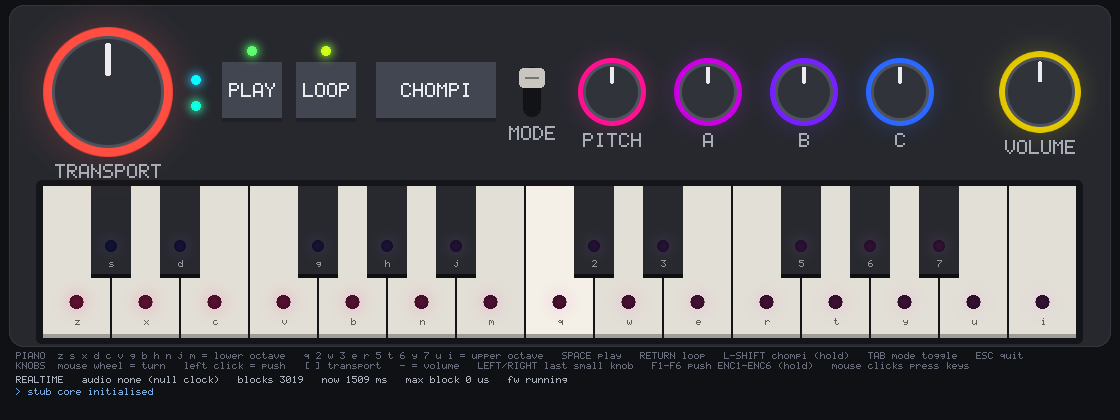
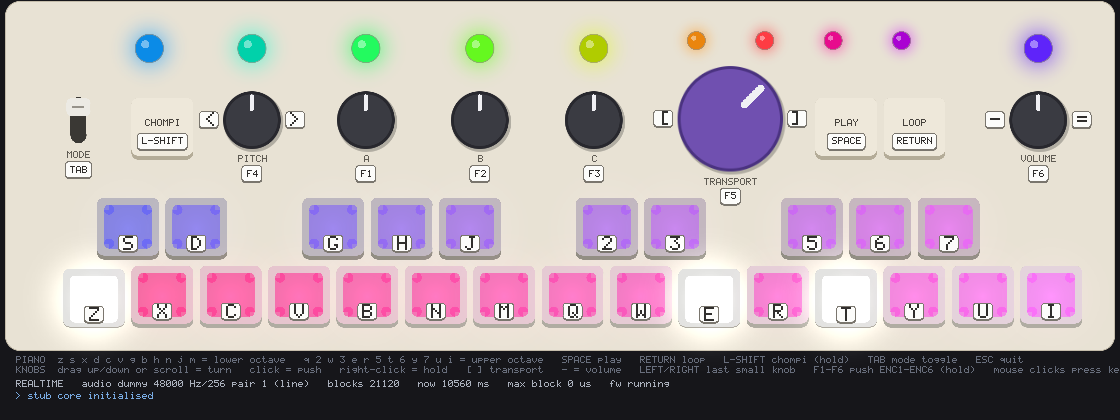
GUI: show the computer key on every control
Each piano key, PLAY, LOOP, CHOMPI, the mode switch and every knob now
carries a small key-shaped chip with the key that works it: the letter or
digit on the piano caps, SPACE / RETURN / L-SHIFT on the function keys, TAB
on the mode switch, F1 to F6 under the knobs for the push, [ ] and - =
beside the transport and volume knobs for turning, and < > beside
whichever small knob the arrow keys currently turn. Regenerate the doc
screenshots.

Claude-Session: https://claude.ai/code/session_01Dp3X1K9YrRtikm9LtFwPLs

diff --git a/frontends/sdl/panel.cpp b/frontends/sdl/panel.cpp
@@ -24,8 +24,8 @@ namespace gui
 {
 using namespace chompi_sim;
 
-const char* const kPianoKeyNames[25] = {"z", "s", "x", "d", "c", "v", "g", "b", "h", "n", "j", "m", "q",
-                                        "2", "w", "3", "e", "r", "5", "t", "6", "y", "7", "u", "i"};
+const char* const kPianoKeyNames[25] = {"Z", "S", "X", "D", "C", "V", "G", "B", "H", "N", "J", "M", "Q",
+                                        "2", "W", "3", "E", "R", "5", "T", "6", "Y", "7", "U", "I"};
 
 namespace
 {
@@ -97,14 +97,16 @@ struct KnobDef
     const char* label;
     float       x_mm, y_mm, r_mm;
     bool        big;
+    const char* push_key;         /**< computer key that pushes the encoder */
+    const char* ccw_key, *cw_key; /**< keys that turn it; nullptr = the arrow keys, when touched last */
 };
 constexpr KnobDef kKnobs[] = {
-    {ENC_SW4, "PITCH", 69.39f, 68.46f, 8.5f, false},
-    {ENC_SW1, "A", 102.90f, 68.46f, 8.5f, false},
-    {ENC_SW2, "B", 136.42f, 68.46f, 8.5f, false},
-    {ENC_SW3, "C", 169.94f, 68.46f, 8.5f, false},
-    {ENC_SW5, "TRANSPORT", 210.09f, 68.85f, 15.5f, true}, // SW5 is on the lower board, under this spot
-    {ENC_SW6, "VOLUME", 300.65f, 68.46f, 8.5f, false},
+    {ENC_SW4, "PITCH", 69.39f, 68.46f, 8.5f, false, "F4", nullptr, nullptr},
+    {ENC_SW1, "A", 102.90f, 68.46f, 8.5f, false, "F1", nullptr, nullptr},
+    {ENC_SW2, "B", 136.42f, 68.46f, 8.5f, false, "F2", nullptr, nullptr},
+    {ENC_SW3, "C", 169.94f, 68.46f, 8.5f, false, "F3", nullptr, nullptr},
+    {ENC_SW5, "TRANSPORT", 210.09f, 68.85f, 15.5f, true, "F5", "[", "]"}, // SW5 is on the lower board, under this spot
+    {ENC_SW6, "VOLUME", 300.65f, 68.46f, 8.5f, false, "F6", "-", "="},
 };
 
 struct FuncKeyDef
@@ -112,11 +114,12 @@ struct FuncKeyDef
     int         button;
     const char* label;
     float       x_mm, y_mm;
+    const char* key; /**< computer key */
 };
 constexpr FuncKeyDef kFuncKeys[] = {
-    {KEY_CHOMPI, "CHOMPI", 43.03f, 65.92f}, // KEY26
-    {KEY_PLAY, "PLAY", 244.14f, 65.92f},    // KEY27
-    {KEY_LOOP, "LOOP", 264.26f, 65.92f},    // KEY28
+    {KEY_CHOMPI, "CHOMPI", 43.03f, 65.92f, "L-SHIFT"}, // KEY26
+    {KEY_PLAY, "PLAY", 244.14f, 65.92f, "SPACE"},      // KEY27
+    {KEY_LOOP, "LOOP", 264.26f, 65.92f, "RETURN"},     // KEY28
 };
 
 /** The ten panel LEDs, by PanelLed index (LED1..LED10 on the board). */
@@ -171,7 +174,6 @@ constexpr SDL_Color kLowerFace   = {226, 224, 217, 255};
 constexpr SDL_Color kLowerSide   = {176, 172, 162, 255};
 constexpr SDL_Color kUpperFace   = {196, 193, 185, 255};
 constexpr SDL_Color kUpperSide   = {146, 142, 132, 255};
-constexpr SDL_Color kKeyText     = {120, 116, 108, 255};
 constexpr SDL_Color kFuncFace    = {238, 232, 218, 255};
 constexpr SDL_Color kFuncSide    = {180, 172, 152, 255};
 constexpr SDL_Color kFuncText    = {70, 66, 60, 255};
@@ -193,6 +195,11 @@ constexpr SDL_Color kToggleGrip  = {150, 146, 138, 255};
 constexpr SDL_Color kHintColor   = {104, 110, 124, 255};
 constexpr SDL_Color kStatusColor = {170, 176, 188, 255};
 constexpr SDL_Color kLogColor    = {120, 170, 226, 255};
+constexpr SDL_Color kChipFace    = {252, 252, 250, 255};
+constexpr SDL_Color kChipEdge    = {122, 118, 110, 255};
+constexpr SDL_Color kChipText    = {48, 46, 44, 255};
+constexpr float     kChipH       = 18.f; /**< height of a computer-key chip */
+constexpr float     kLabelH      = 7.f;  /**< height of the 1 px label font */
 
 SDL_Color Scaled(SDL_Color c, float f)
 {
@@ -402,6 +409,22 @@ void DrawLed(Canvas& cv, float cx, float cy, float r, Rgb c)
     cv.Disc(cx - r * 0.3f, cy - r * 0.3f, r * 0.3f, SDL_Color{255, 255, 255, 110});
 }
 
+/** The computer key for a control: a small key-shaped chip with the key's
+ *  name, centred on (cx, cy). A single character is drawn large, a key name
+ *  small. */
+void DrawKeyChip(Canvas& cv, float cx, float cy, const char* name)
+{
+    if(!name || !*name)
+        return;
+    const std::string s(name);
+    const int         px = s.size() == 1 ? 2 : 1;
+    const float       tw = float(TextWidth(s, px)), th = float(TextHeight(px));
+    const float       w  = std::max(kChipH, tw + 10.f);
+    cv.RoundRect(cx - w / 2, cy - kChipH / 2, w, kChipH, 4.f, kChipEdge);
+    cv.RoundRect(cx - w / 2 + 1, cy - kChipH / 2 + 1, w - 2, kChipH - 3, 3.f, kChipFace);
+    cv.Text(cx, cy - th / 2 - 1, px, kChipText, s, 0);
+}
+
 void DrawPianoKeys(Canvas& cv, const UiState& st)
 {
     for(int semi = 0; semi < 25; semi++)
@@ -425,7 +448,7 @@ void DrawPianoKeys(Canvas& cv, const UiState& st)
             cv.RoundRect(r.x + in, r.y + in + dy, r.w - 2 * in, r.h - 2 * in - kKeyLipH + (pressed ? 3.f : 0.f), kCapRad - 2, lit);
             cv.Glow(r.x + r.w / 2, r.y + r.h / 2 + dy, r.w * 0.55f, led, 0.5f, true);
         }
-        cv.Text(r.x + r.w - 9, r.y + r.h - kKeyLipH - 11 + dy, 1, kKeyText, kPianoKeyNames[semi], 0);
+        DrawKeyChip(cv, r.x + r.w / 2, r.y + r.h - kKeyLipH - kChipH / 2 - 3 + dy, kPianoKeyNames[semi]);
     }
 }
 
@@ -449,6 +472,22 @@ void DrawKnob(Canvas& cv, const KnobDef& k, const UiState& st)
         cv.Disc(cx + sx * t * r, cy + sy * t * r, pw, kPointer);
 
     cv.Text(cx, cy + R + 6, 1, kLabel, k.label, 0);
+
+    // computer keys: the push key under the label, the turn keys either side
+    // of the knob (the arrow keys follow the small knob touched last)
+    DrawKeyChip(cv, cx, cy + R + 6 + kLabelH + kChipH / 2 + 3, k.push_key);
+    const char* ccw = k.ccw_key;
+    const char* cw  = k.cw_key;
+    if(!ccw && st.arrow_knob == k.enc)
+    {
+        ccw = "<";
+        cw  = ">";
+    }
+    if(ccw && cw)
+    {
+        DrawKeyChip(cv, cx - R - kChipH * 0.8f, cy, ccw);
+        DrawKeyChip(cv, cx + R + kChipH * 0.8f, cy, cw);
+    }
 }
 
 void DrawFuncKey(Canvas& cv, const FuncKeyDef& f, const UiState& st)
@@ -458,7 +497,8 @@ void DrawFuncKey(Canvas& cv, const FuncKeyDef& f, const UiState& st)
     bool      hover   = st.hover == Hit{HitKind::FuncKey, f.button};
     float     dy      = pressed ? kKeyPressDy : 0.f;
     DrawKeyCap(cv, r, kFuncFace, kFuncSide, pressed, hover);
-    cv.Text(r.x + r.w / 2, r.y + r.h / 2 - 5 + dy, 1, kFuncText, f.label, 0);
+    cv.Text(r.x + r.w / 2, r.y + r.h / 2 - 10 + dy, 1, kFuncText, f.label, 0);
+    DrawKeyChip(cv, r.x + r.w / 2, r.y + r.h / 2 + 13 + dy, f.key);
 }
 
 void DrawToggle(Canvas& cv, const UiState& st)
@@ -472,6 +512,7 @@ void DrawToggle(Canvas& cv, const UiState& st)
     cv.RoundRect(cx - t.thumb_w / 2, ty, t.thumb_w, t.thumb_h, 5, hover ? Scaled(kToggleThumb, 1.04f) : kToggleThumb);
     cv.FillRect(cx - t.thumb_w / 2 + 6, ty + t.thumb_h / 2 - 1, t.thumb_w - 12, 2, kToggleGrip);
     cv.Text(cx, cy + t.h / 2 + 8, 1, kLabel, "MODE", 0);
+    DrawKeyChip(cv, cx, cy + t.h / 2 + 8 + kLabelH + kChipH / 2 + 3, "TAB");
 }
 
 void DrawTextArea(Canvas& cv, const UiState& st)

diff --git a/frontends/sdl/panel.h b/frontends/sdl/panel.h
@@ -46,6 +46,7 @@ struct UiState
 {
     std::array<float, chompi_sim::kNumEncoders> knob_angle{};   /**< degrees, clockwise positive */
     std::array<bool, chompi_sim::kNumEncoders>  knob_pressed{}; /**< encoder push switches */
+    int                                          arrow_knob = -1; /**< small knob the Left/Right arrow keys turn */
     Hit                                          hover;         /**< control under the mouse */
     std::string                                  status;        /**< status line */
     std::vector<std::string>                     log;           /**< last firmware log lines, oldest first */

diff --git a/frontends/sdl/main.cpp b/frontends/sdl/main.cpp
@@ -603,6 +603,7 @@ class App
         ui_.log.assign(log_.begin(), log_.end());
         for(int i = 0; i < kNumEncoders; i++)
             ui_.knob_pressed[size_t(i)] = input_.EncoderPressed(i);
+        ui_.arrow_knob = last_small_knob_;
 
         Stats st = Sim::Get().GetStats();
         char  buf[256];

diff --git a/README.md b/README.md
@@ -85,7 +85,10 @@ the mode switch is drawn where the board puts it.
      [z] [x] [c] [v] [b] [n] [m] [q] [w] [e] [r] [t] [y] [u] [i]               <- lower row of caps
 ```
 
-Each key cap is lit by the LED under it. No artwork or logos are reproduced.
+Each key cap is lit by the LED under it. Every control carries a small
+key-shaped chip with the computer key that works it; the arrow-key chips sit
+beside whichever small knob was touched last. No artwork or logos are
+reproduced.
 
 | Control | Computer |
 |---|---|
